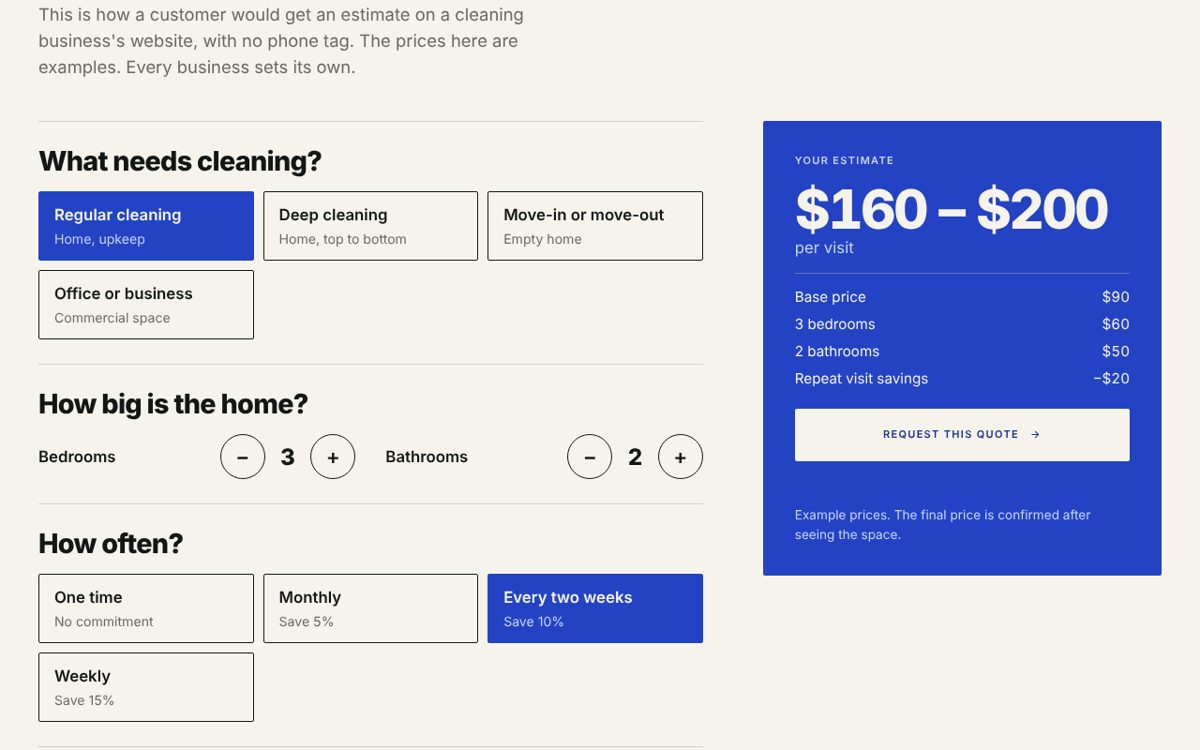
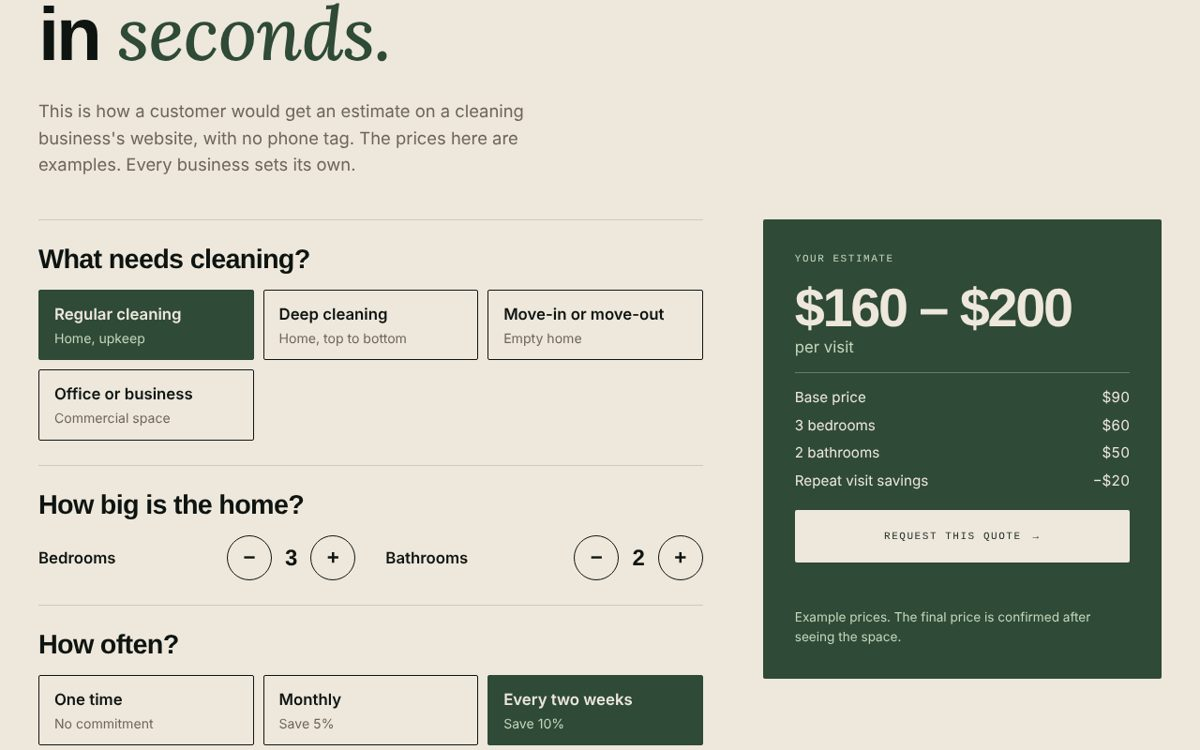
Match the quote demo to the main site's colors and fonts
Claude-Session: https://claude.ai/code/session_01KBxqRXD3eKPQHRg2t7uD47

diff --git a/quote-demo/index.html b/quote-demo/index.html
@@ -9,33 +9,34 @@
 <link rel="icon" href="../favicon.svg" type="image/svg+xml">
 <link rel="preconnect" href="https://fonts.googleapis.com">
 <link rel="preconnect" href="https://fonts.gstatic.com" crossorigin>
-<link rel="stylesheet" href="https://fonts.googleapis.com/css2?family=Inter:wght@400;500;600;800&display=swap">
+<link rel="stylesheet" href="https://fonts.googleapis.com/css2?family=Bricolage+Grotesque:opsz,wght@12..96,500;12..96,700;12..96,800&family=DM+Mono:wght@400;500&family=DM+Sans:wght@400;500;600&family=Lora:ital,wght@1,500&display=swap">
 <style>
 /* Layout: questions on the left, a running estimate pinned on the right. On a phone the estimate pins to the bottom. */
 :root{
-  --paper:#F6F3EC; --white:#FFFDF8; --ink:#121614; --stone:#6A6860; --line:rgba(18,22,20,.16);
-  --blue:#2343C4; --blue-deep:#182F8F; --sky:#DCE3F8; --on-blue:#F6F3EC;
+  /* Same palette as the main site. The --blue names are kept from the first version: they now hold the moss greens. */
+  --paper:#EDE7DC; --white:#F4EFE5; --ink:#0E1410; --stone:#6E6557; --line:rgba(14,20,16,.14);
+  --blue:#2F4A37; --blue-deep:#1F2D24; --sky:#DCE3D2; --on-blue:#EDE7DC;
 }
 *{box-sizing:border-box}
-body{margin:0;background:var(--paper);color:var(--ink);font:400 1.05rem/1.5 Inter,'Helvetica Neue',Arial,sans-serif}
+body{margin:0;background:var(--paper);color:var(--ink);font:400 1.05rem/1.55 'DM Sans',system-ui,sans-serif}
 h1,h2,p{margin:0}
 a{color:inherit}
 :focus-visible{outline:3px solid var(--blue);outline-offset:3px}
 .pad{padding-inline:clamp(18px,3.2vw,44px)}
-.cap{font:600 11px/1.6 Inter,sans-serif;letter-spacing:.12em;text-transform:uppercase}
+.cap{font:400 11px/1.6 'DM Mono','Courier New',monospace;letter-spacing:.14em;text-transform:uppercase}
 .top{display:flex;flex-wrap:wrap;gap:10px 24px;justify-content:space-between;align-items:center;padding-block:18px;color:var(--stone)}
 .top a{text-decoration:none;border-bottom:1px solid currentColor;padding-bottom:2px}
 .lang{display:flex;gap:4px;align-items:center}
 .lang button{font:inherit;letter-spacing:inherit;text-transform:inherit;background:none;border:0;border-bottom:1px solid transparent;color:var(--stone);cursor:pointer;padding:8px 6px;min-height:36px}
 .lang button[aria-pressed="true"]{color:var(--ink);border-bottom-color:var(--ink)}
 header{padding-block:clamp(20px,4vw,48px) clamp(24px,4vw,44px)}
-h1{font:800 clamp(2.2rem,6.5vw,5rem)/.96 Inter,sans-serif;letter-spacing:-.04em;max-width:14ch;text-wrap:balance}
-h1 em{font-style:italic;color:var(--blue)}
+h1{font:800 clamp(2.2rem,6.5vw,5rem)/.96 'Bricolage Grotesque','Arial Black',sans-serif;letter-spacing:-.04em;max-width:14ch;text-wrap:balance}
+h1 em{font:italic 500 1em 'Lora',Georgia,serif;color:var(--blue);letter-spacing:-.01em}
 .lead{margin-top:18px;color:var(--stone);font-size:1.15rem;max-width:46ch}
 
 .layout{display:grid;grid-template-columns:minmax(0,1.25fr) minmax(0,.75fr);gap:clamp(24px,5vw,72px);align-items:start;padding-bottom:72px}
 fieldset{border:0;margin:0;padding:26px 0;border-top:1px solid var(--line);min-width:0}
-legend{padding:0;font:800 clamp(1.3rem,2.6vw,1.8rem)/1.1 Inter,sans-serif;letter-spacing:-.025em;margin-bottom:16px;float:left;width:100%}
+legend{padding:0;font:800 clamp(1.3rem,2.6vw,1.8rem)/1.1 'Bricolage Grotesque','Arial Black',sans-serif;letter-spacing:-.025em;margin-bottom:16px;float:left;width:100%}
 legend + *{clear:both}
 .opts{display:grid;grid-template-columns:repeat(auto-fit,minmax(170px,1fr));gap:10px}
 .opt{position:relative}
@@ -43,21 +44,21 @@ legend + *{clear:both}
 .opt > span{display:flex;flex-direction:column;gap:2px;justify-content:center;min-height:64px;padding:12px 16px;border:1.5px solid var(--ink);border-radius:2px;font-weight:600;background:transparent;transition:background .15s,color .15s}
 .opt small{font-weight:400;color:var(--stone);font-size:.88rem}
 .opt input:checked + span{background:var(--blue);border-color:var(--blue);color:var(--on-blue)}
-.opt input:checked + span small{color:#C9D4FF}
+.opt input:checked + span small{color:#C4D6BC}
 .opt input:focus-visible + span{outline:3px solid var(--blue);outline-offset:3px}
 .steppers{display:grid;grid-template-columns:repeat(auto-fit,minmax(220px,1fr));gap:18px 32px}
 .stepper{display:flex;align-items:center;justify-content:space-between;gap:12px}
 .stepper b{font-weight:600}
 .ctl{display:flex;align-items:center;gap:6px}
-.ctl button{width:48px;height:48px;border-radius:50%;border:1.5px solid var(--ink);background:transparent;color:var(--ink);font:600 1.4rem/1 Inter,sans-serif;cursor:pointer}
+.ctl button{width:48px;height:48px;border-radius:50%;border:1.5px solid var(--ink);background:transparent;color:var(--ink);font:600 1.4rem/1 'Bricolage Grotesque','Arial Black',sans-serif;cursor:pointer}
 .ctl button:hover{background:var(--sky)}
 .ctl button:disabled{opacity:.3;cursor:default;background:transparent}
-.ctl output{min-width:2.2ch;text-align:center;font:800 1.5rem Inter,sans-serif;font-variant-numeric:tabular-nums}
+.ctl output{min-width:2.2ch;text-align:center;font:800 1.5rem 'Bricolage Grotesque','Arial Black',sans-serif;font-variant-numeric:tabular-nums}
 
 .result{position:sticky;top:20px;background:var(--blue);color:var(--on-blue);border-radius:2px;padding:clamp(22px,3vw,34px);display:flex;flex-direction:column;gap:14px}
-.result .cap{color:#C9D4FF}
-.price{font:800 clamp(2.3rem,5vw,3.6rem)/1 Inter,sans-serif;letter-spacing:-.04em;font-variant-numeric:tabular-nums}
-.per{color:#C9D4FF}
+.result .cap{color:#C4D6BC}
+.price{font:800 clamp(2.3rem,5vw,3.6rem)/1 'Bricolage Grotesque','Arial Black',sans-serif;letter-spacing:-.04em;font-variant-numeric:tabular-nums}
+.per{color:#C4D6BC}
 .lines{list-style:none;margin:0;padding:14px 0 0;border-top:1px solid rgba(246,243,236,.3);display:flex;flex-direction:column;gap:6px;font-size:.95rem}
 .lines li{display:flex;justify-content:space-between;gap:12px}
 .lines span:last-child{font-variant-numeric:tabular-nums;white-space:nowrap}
@@ -65,7 +66,7 @@ legend + *{clear:both}
 .result .btn{color:var(--blue-deep)}
 .btn:hover{background:#fff}
 #sent{min-height:1.3em;font-size:.95rem}
-.fine{font-size:.85rem;color:#C9D4FF}
+.fine{font-size:.85rem;color:#C4D6BC}
 [hidden]{display:none!important}
 
 @media (max-width:820px){
